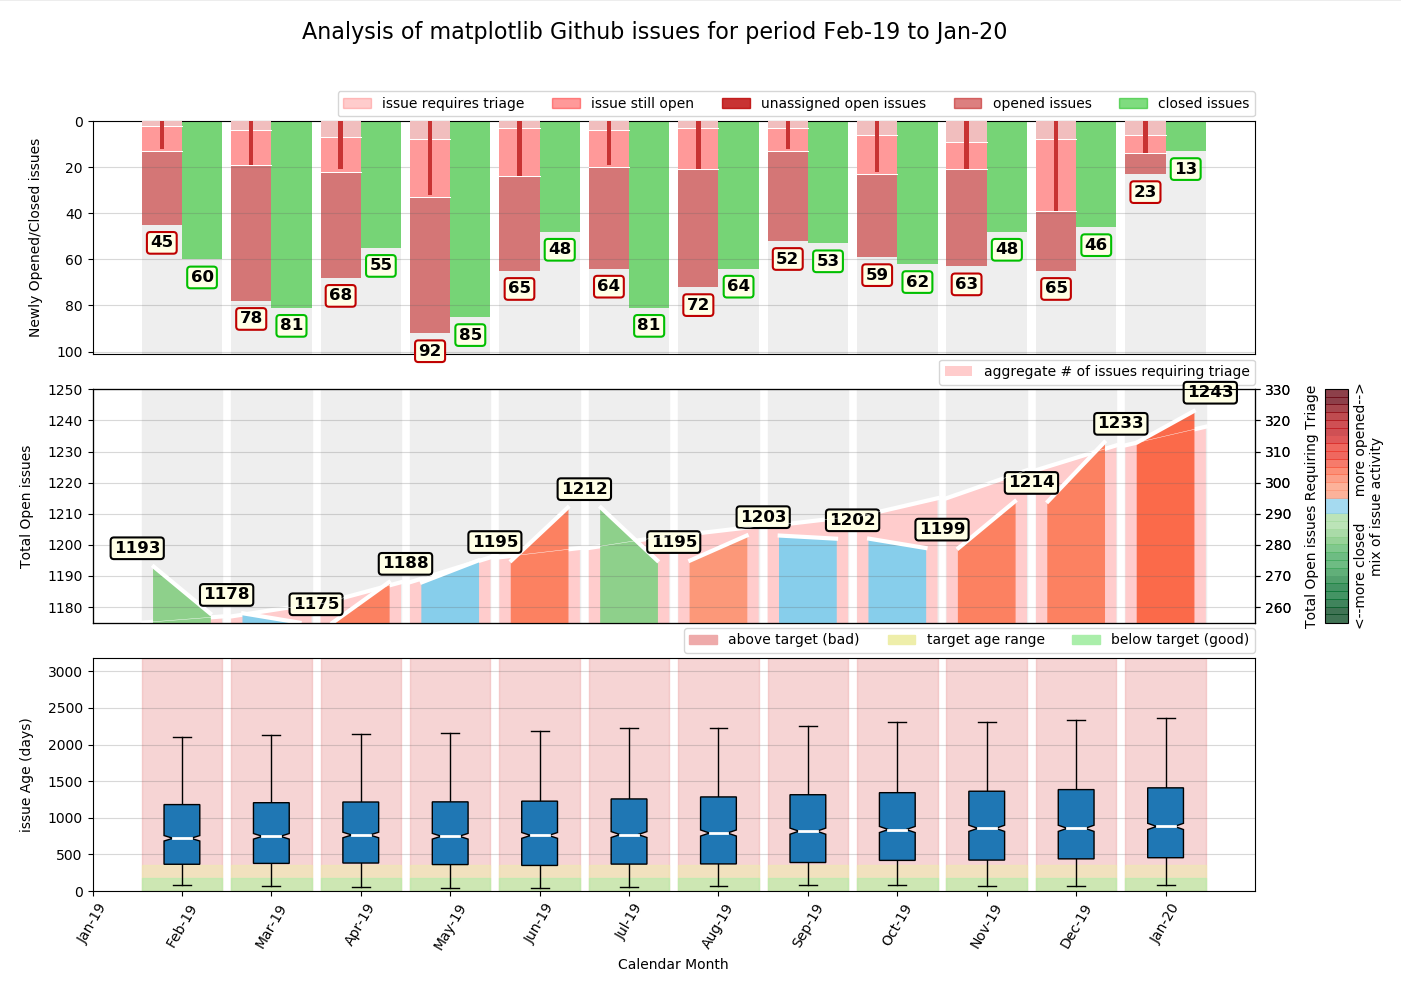
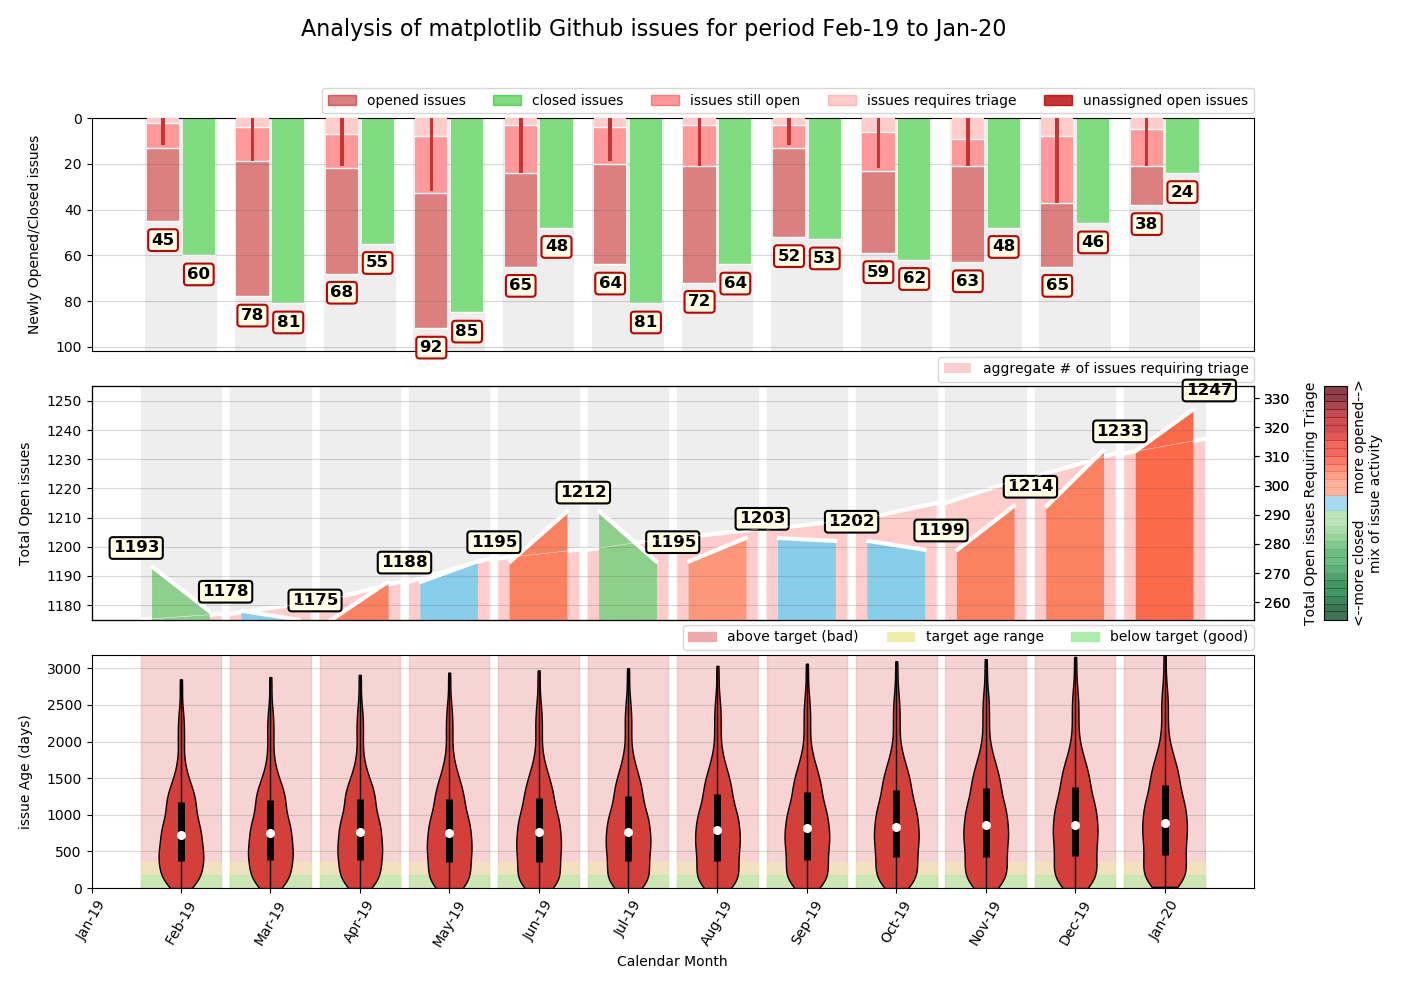
* replace issue ages box plot with a violin plot * refactor opened/closed issues (top dashboard) matplotlib code as a user-configurable function * replace main githubio page image with a version containing the new violin plot

diff --git a/src/RepoDash.py b/src/RepoDash.py
@@ -26,14 +26,14 @@ gu = GithubIssuesUtils()
 args = gu.process_args()
 args = gu.args
 
-# simply report debug info and quit if -i/--info arg is supplied on cmd line
+# simply write debug info to a file and quit if -i/--info arg is supplied
 if args['info'] == True:
     gu.write_debug_info()
     exit()
 
+# wipe and create an empty issues database table with every run
+# (future versions may implement incremental update capabilities)
 db = GithubIssuesDB(f'{gu.data_path}/issues', 'issues', echo=False)
-# wipe and regenerate the issues database with every run.
-# future versions may implement more extensive CRUD capabilities
 db.drop_table()
 db.create_table()
 
@@ -53,14 +53,13 @@ if db.count_records(f"{args['issue_type']}") == 0:
     print (f"ERROR: no {args['issue_type']}s found")
     exit()
 
+# initialise numpy arrays for plotting data
 gd = GithubIssuesData()
 data_span = db.monthly_span
 gd.init_arrays(data_span)
 
-
-
 # populate numpy data arrays for plotting
-# ([1] opened, [2] closed, [3] open & unlabelled [4] open & unassigned [5] open [6] total open & [6] ages)
+# ([1] opened, [2] closed, [3] open & unlabelled [4] open & unassigned [5] open [6] total open & [7] ages)
 print("INFO Processing data...")
 i = 0
 for idx in data_span:
@@ -94,18 +93,19 @@ for idx in data_span:
                                          else gd.total_open_issue_counts[(i-1)] + gd.opened_issue_counts[i] - gd.closed_issue_counts[i])
         gd.total_unlabelled_issue_counts[i] = gd.total_unlabelled_issue_counts[i-1] + gd.unlabelled_issue_counts[i]       
         gd.total_unassigned_issue_counts[i] = gd.total_unassigned_issue_counts[i-1] + gd.unassigned_issue_counts[i]       
-    # [6]
+    # [7]
     npa = db.get_issue_ages(args['issue_type'], idx.strftime('%Y-%m-%d'))
     gd.issue_ages.append(npa.values.flatten())
     i += 1
 
 # identify start and end array indices for requested plotting time span
 [w_start, w_end] = gd.set_plot_window(args)
-w_start -= 1
-w_end += 1
+w_start -= 1 # we want 1 month prior as well
+w_end += 1   # account for open ended ranges
 
-#db.show_issues(f"{args['issue_type']}")
-#db.show_statistics(gd.plot_window)
+# optional debug functions
+# db.show_issues(f"{args['issue_type']}")
+# db.show_statistics(gd.plot_window)
 
 # calculate monthly mix of opened/closed issues
 # range = [-1, 1], -ve => closed > opened, +ve => opened > closed
@@ -122,7 +122,7 @@ cm_reds   = cm.get_cmap('Reds', 15)   # red   = bad  (list growth)
 cm_greens.set_over('#FFFF00')         # use yellow as default out of range green colour
 cm_reds.set_over('#FF00FF')           # use purple as default out of range red colour
 
-# constrauct the colorbar from the heatmaps
+# construct the colorbar from the heatmaps
 pos_cmap = cm.get_cmap('Greens_r', 15)
 neg_cmap = cm.get_cmap('Reds', 15)
 newcolors = np.vstack((pos_cmap(np.linspace(0, 0.7, 15)),
@@ -146,81 +146,173 @@ fig.suptitle(title, fontsize=16)
 #######################################################################
 ### TOP SUBPLOT - count of issues opened or closed during the month ###
 #######################################################################
-plt.subplot(3,1,1)
 
-opened = gd.opened_issue_counts[w_start:w_end]
-closed = gd.closed_issue_counts[w_start:w_end]
-unlabelled = gd.unlabelled_issue_counts[w_start:w_end]
-unassigned = gd.unassigned_issue_counts[w_start:w_end]
-open_issue = gd.open_issue_counts[w_start:w_end]
-
-max_height = np.concatenate([opened[1:], closed[1:]]).max()
-
-ax_top = plt.gca()
-label_offset = (0.5 - bar_spacing) / 2
+def plot_monthly_bar(x, y, label_offset_y=None, ax=None, **kwargs):
     
-# create monthly fill areas/lines
-for i in range(1,opened.size):
-    start  = i - (0.5-bar_spacing)
-    finish = i + (0.5-bar_spacing)
-
-    # time block shading
-    plt.bar(start, max_height*1.1, width=1-(2*bar_spacing), align='edge', color='#EEEEEE',alpha=1.0, zorder=0)
-
-    plt.bar(start, opened[i], width=0.5-bar_spacing,   align='edge', color='#BB0000',alpha=0.5, zorder=1)    
-    plt.bar(i, closed[i], width=0.5-bar_spacing,   align='edge', color='#00BB00',alpha=0.5, zorder=1)
-
-    plt.bar(start, open_issue[i], width=0.5-bar_spacing,   align='edge', color='w',alpha=1, zorder=2)
-    plt.bar(start, open_issue[i], width=0.5-bar_spacing,   align='edge', color='r',alpha=0.4, zorder=3)
-    plt.plot([start,start+0.5-bar_spacing], [open_issue[i],open_issue[i]], color="w", alpha=1, linewidth=0.75, zorder=4)
-
-    plt.bar(start, unlabelled[i], width=0.5-bar_spacing,   align='edge', color='#EEEEEE',alpha=1, zorder=5)
-    plt.bar(start, unlabelled[i], width=0.5-bar_spacing,   align='edge', color='r',alpha=0.2, zorder=6)
-    plt.plot([start,start+0.5-bar_spacing], [unlabelled[i],unlabelled[i]], color="w", alpha=1, linewidth=0.75, zorder=7)
-
-    unassigned_width = 0.05
-    unassigned_pos = start + ((0.5 - bar_spacing)/2) - (unassigned_width/2)
-    plt.bar(unassigned_pos, unassigned[i], unassigned_width, align='edge', color='w',alpha=1, zorder=8)
-    plt.bar(unassigned_pos, unassigned[i], unassigned_width, align='edge', color='#BB0000',alpha=0.8, zorder=9)
-
-    bbox_props = dict(boxstyle="round,pad=0.2", fc=(1,1,0.9), ec=(0.75,0,0), lw=1.5)
-    ax_top.text(i-label_offset, opened[i]+(max_height*0.05),
-                str(opened[i]),
-                ha="center", va="top", rotation=0,
-                size=12, weight="bold",
-                bbox=bbox_props)
     
-    bbox_props = dict(boxstyle="round,pad=0.2", fc=(1,1,0.9), ec=(0,0.75,0), lw=1.5)
-    ax_top.text(i+label_offset, closed[i]+(max_height*0.05),
-                str(closed[i]),
+    # provide default axis if axis is not specified
+    if ax is None:
+        ax = plt.gca()
+
+    config = {'color': 'w', 'alpha': 1, 'zorder': 1, 'width': 1, 'align': 'edge',
+              'line_color': 'w', 'line_alpha': 1, 'line_width': 1,
+              **kwargs.get('config', {})}
+
+    start_x = (x if config['align'] == 'edge' else x-(config['width']/2))
+
+    if y > 0:
+        ax.bar(x, y, width=config['width'], align=config['align'],
+               color='w',
+               alpha=1,
+               zorder=config['zorder'])
+        ax.bar(x, y, width=config['width'], align=config['align'],
+               color=config['color'],
+               alpha=config['alpha'],
+               zorder=config['zorder'])
+        ax.plot([start_x,start_x+config['width']], [y,y],
+                linewidth=config['line_width'],
+                color=config['line_color'],
+                alpha=config['line_alpha'],
+                zorder=config['zorder'])
+    
+    if label_offset_y is not None:
+        label_offset_x = config['width'] / 2
+        bbox_props = dict(boxstyle="round,pad=0.2", fc=(1,1,0.9), ec=(0.75,0,0), lw=1.5)
+        ax.text(start_x+label_offset_x, y+label_offset_y,
+                str(y),
                 ha="center", va="top", rotation=0,
                 size=12, weight="bold",
                 bbox=bbox_props)
 
-plt.axis([0, opened.size, 0, max_height*1.1])
+def plot_monthly_counts(opened_counts, closed_counts , ax=None, **kwargs):
+    
+    # provide default axis if axis is not specified
+    if ax is None:
+        ax = plt.gca()
+    
+    # process configuration values, setting to default values where silent
+    tbox_config = {'color': '#EEEEEE', 'alpha': 1, 'zorder': 0, 'align': 'edge', 
+                   'line_color': 'w', 'line_alpha': 0, 'line_width': 0, 'spacing': 0.1,
+                   **kwargs.get('tbox_config', {})}
+    tbox_config.update({'width': 1 - (2 * tbox_config['spacing'])})
+    
+    opened_config = {'color': '#BB0000', 'alpha': 0.5, 'zorder': 1, 'align': 'center', 
+                     'line_color': 'w', 'line_alpha': 1, 'line_width': 1, 'width_pct': 0.45,
+                     **kwargs.get('opened_config', {})}
+    opened_config.update({'width': opened_config['width_pct']*tbox_config['width']})
 
-plt.gca().invert_yaxis()
+    closed_config = {'color': '#00BB00', 'alpha': 0.5, 'zorder': 2, 'align': 'center',
+                     'line_color': 'w', 'line_alpha': 1, 'line_width': 1, 'width_pct': 0.45,
+                     **kwargs.get('closed_config', {})}
+    closed_config.update({'width': closed_config['width_pct']*tbox_config['width']})
+    
+    open_config = {'color': '#FF0000', 'alpha': 0.4, 'zorder': 3, 'align': 'center',
+                   'line_color': 'w', 'line_alpha': 1, 'line_width': 1, 'width_pct': 0.45,
+                   **kwargs.get('open_config', {})}
+    open_config.update({'width': open_config['width_pct']*tbox_config['width']})
+    
+    unlabelled_config = {'color': '#FF0000', 'alpha': 0.2, 'zorder': 4, 'align': 'center',
+                         'line_color': 'w', 'line_alpha': 1, 'line_width': 1, 'width_pct': 0.45,
+                         **kwargs.get('unlabelled_config', {})}
+    unlabelled_config.update({'width': unlabelled_config['width_pct']*tbox_config['width']})
+    
+    unassigned_config = {'color': '#BB0000', 'alpha': 0.8, 'zorder': 5, 'align': 'center',
+                         'line_color': 'w', 'line_alpha': 0, 'line_width': 0, 'width_pct': 0.05,
+                         **kwargs.get('unassigned_config', {})}
+    unassigned_config.update({'width': unassigned_config['width_pct']*tbox_config['width']})
+    
+    # process other keyword arguments
+    unlabelled_counts = kwargs.get('unlabelled_counts', [])
+    unassigned_counts = kwargs.get('unassigned_counts', [])
+    open_counts = kwargs.get('open_counts', [])    
+    start_idx = kwargs.get('start_idx', 0)
+    end_idx = kwargs.get('end_idx', None)
 
-plt.ylabel(f"Newly Opened/Closed {args['issue_type']}s", labelpad=10)
+    # define data slices according to start_idx and end_idx, with sensible defaults
+    if end_idx is None:
+        opened = opened_counts[start_idx:]
+        closed = closed_counts[start_idx:]
+        unlabelled = (unlabelled_counts[start_idx:] if unlabelled_counts is not None else [])
+        unassigned = (unassigned_counts[start_idx:] if unassigned_counts is not None else [])
+        open_issue = (open_counts[start_idx:] if open_counts is not None else [])
+    else:
+        opened = opened_counts[start_idx:end_idx]
+        closed = closed_counts[start_idx:end_idx]
+        unlabelled = (unlabelled_counts[start_idx:end_idx] if unlabelled_counts is not None else [])
+        unassigned = (unassigned_counts[start_idx:end_idx] if unassigned_counts is not None else [])
+        open_issue = (open_counts[start_idx:end_idx] if open_counts is not None else [])
 
-plt.tick_params(
-    axis='x',          # changes apply to the x-axis
-    which='both',      # both major and minor ticks are affected
-    bottom=False,      # ticks along the bottom edge are off
-    top=False,         # ticks along the top edge are off
-    labelbottom=False) # labels along the bottom edge are off
+    # calculate required axis height, allowing for some headroom
+    ax_height = math.ceil(np.concatenate([opened[1:], closed[1:]]).max() * 1.1)
 
-light_red_patch   = mpatches.Patch(color='r', alpha=0.2, label=f"{args['issue_type']} requires triage")
-mid_red_patch   = mpatches.Patch(color='r', alpha=0.4, label=f"{args['issue_type']} still open")
-red_patch   = mpatches.Patch(color='#BB0000', alpha=0.5, label=f"opened {args['issue_type']}s")
-dark_red_patch   = mpatches.Patch(color='#BB0000', alpha=0.8, label=f"unassigned open {args['issue_type']}s")
-green_patch = mpatches.Patch(color='#00BB00', alpha=0.5, label=f"closed {args['issue_type']}s")
-plt.legend(handles=[light_red_patch, mid_red_patch, dark_red_patch, red_patch, green_patch],
-           bbox_to_anchor=(0, 1.02, 1, .102), loc='lower right',
-           ncol=5, borderaxespad=0)
+    # create monthly fill areas/lines
+    for i in range(1,opened.size):
+        start  = i - (tbox_config['width']/2)
+        finish = i + (tbox_config['width']/2)
 
-# Show the grid lines as dark grey lines
-plt.grid(axis='y', b=True, which='major', color='#666666', linestyle='-', alpha=0.25)
+        # time block shading
+        plot_monthly_bar(start, ax_height, ax=ax, config=tbox_config)
+
+        # 'opened this month' count bar
+        x = (start if opened_config['align'] == 'edge' else (start+i)/2)
+        plot_monthly_bar(x, opened[i], label_offset_y=(ax_height*0.05), ax=ax, config=opened_config)
+        
+        # 'closed this month' count bar
+        x = (i if closed_config['align'] == 'edge' else (i+finish)/2)
+        plot_monthly_bar(x, closed[i], label_offset_y=(ax_height*0.05), ax=ax, config=closed_config)
+
+        # (optional) 'opened this month & currently still open' count bar
+        if len(open_issue) > 0:
+            x = (start if open_config['align'] == 'edge' else (start+i)/2)
+            plot_monthly_bar(x, open_issue[i], ax=ax, config=open_config)
+
+        # (optional) 'opened this month, currently still open & unlabelled' count bar
+        if len(unlabelled) > 0:
+            x = (start if unlabelled_config['align'] == 'edge' else (start+i)/2)
+            plot_monthly_bar(x, unlabelled[i], ax=ax, config=unlabelled_config)
+        
+        # (optional) 'opened this month, currently still open & unassigned' count bar
+        if len(unassigned) > 0:
+            x = (start if unassigned_config['align'] == 'edge' else (start+i)/2)
+            plot_monthly_bar(x, unassigned[i], ax=ax, config=unassigned_config)
+    
+    ax.axis([0, opened.size, 0, ax_height])
+    ax.invert_yaxis()
+    ax.set_ylabel(f"Newly Opened/Closed {args['issue_type']}s", labelpad=10)
+
+    ax.tick_params(
+        axis='x',          # changes apply to the x-axis
+        which='both',      # both major and minor ticks are affected
+        bottom=False,      # ticks along the bottom edge are off
+        top=False,         # ticks along the top edge are off
+        labelbottom=False) # labels along the bottom edge are off
+ 
+    legend = []
+    legend.append(mpatches.Patch(color=opened_config['color'], alpha=opened_config['alpha'],
+                                 label=f"opened {args['issue_type']}s"))
+    legend.append(mpatches.Patch(color=closed_config['color'], alpha=closed_config['alpha'],
+                                 label=f"closed {args['issue_type']}s"))
+    if len(open_issue) > 0:
+        legend.append(mpatches.Patch(color=open_config['color'], alpha=open_config['alpha'],
+                                     label=f"{args['issue_type']}s still open"))
+    if len(unlabelled) > 0:
+        legend.append(mpatches.Patch(color=unlabelled_config['color'], alpha=unlabelled_config['alpha'],
+                                     label=f"{args['issue_type']}s requires triage"))
+    if len(unassigned) > 0:
+        legend.append(mpatches.Patch(color=unassigned_config['color'], alpha=unassigned_config['alpha'],
+                                     label=f"unassigned open {args['issue_type']}s"))
+    ax.legend(handles=legend, ncol=len(legend), borderaxespad=0, bbox_to_anchor=(0, 1.02, 1, .102), loc='lower right')
+
+    # Show the grid lines as dark grey lines
+    ax.grid(axis='y', b=True, which='major', color='#666666', linestyle='-', alpha=0.25)
+
+
+# calling code for topmost metrics dashboard (monthly counts)
+ax_top = plt.subplot(3,1,1)
+plot_monthly_counts(gd.opened_issue_counts, gd.closed_issue_counts, start_idx=w_start, end_idx=w_end, ax=ax_top,
+                    open_counts=gd.open_issue_counts,
+                    unlabelled_counts=gd.unlabelled_issue_counts,
+                    unassigned_counts=gd.unassigned_issue_counts)
 
 ###########################################################################
 ### MIDDLE SUBPLOT - total issues open at the start & end of each month ###
@@ -357,6 +449,14 @@ cbar.ax.set_ylabel(f"<--more closed      more opened-->\nmix of {args['issue_typ
 #################################################################################
 plt.subplot(3,1,3)
 
+def adjacent_values(vals, q1, q3):
+    upper_adjacent_value = q3 + (q3 - q1) * 1.5
+    upper_adjacent_value = np.clip(upper_adjacent_value, q3, vals[-1])
+
+    lower_adjacent_value = q1 - (q3 - q1) * 1.5
+    lower_adjacent_value = np.clip(lower_adjacent_value, vals[0], q1)
+    return lower_adjacent_value, upper_adjacent_value
+
 ages = gd.issue_ages[w_start:w_end]
 positions = np.arange(0,len(ages))
 labels = gd.month_labels[w_start:w_end]
@@ -378,9 +478,33 @@ for i in range(1,len(ages)):
     plt.fill_between([start,finish], [360,360], color='#EEEEAA', alpha=0.5)
     plt.fill_between([start,finish], [180,180],   color='#AAEEAA', alpha=0.5)
 
-plt.boxplot(ages[1:], positions=positions[1:],
-            widths=0.4, whis=[5, 95], notch=True, showfliers=False,
-            patch_artist=True, medianprops=medianprops)
+parts = plt.violinplot(ages[1:], positions=positions[1:],
+                       showmeans=False, showmedians=False, showextrema=False)
+
+for pc in parts['bodies']:
+    pc.set_facecolor('#D43F3A')
+    pc.set_edgecolor('black')
+    pc.set_alpha(1)
+
+quartile1 = []
+medians = []
+quartile3 = []
+for month in ages:
+    q1, m, q3 = np.percentile(month.tolist(), [25, 50, 75], axis=0)
+    quartile1.append(q1)
+    medians.append(m)
+    quartile3.append(q3)
+
+whiskers = np.array([adjacent_values(sorted_array, q1, q3)
+                     for sorted_array, q1, q3
+                     in zip(ages, quartile1, quartile3)])
+whiskersMin, whiskersMax = whiskers[1:, 0], whiskers[1:, 1]
+
+inds = np.arange(0, len(medians))
+plt.scatter(inds[1:], medians[1:], marker='o', color='white', s=30, zorder=3)
+plt.vlines(inds[1:], quartile1[1:], quartile3[1:], color='k', linestyle='-', lw=5)
+plt.vlines(inds[1:], whiskersMin, whiskersMax, color='k', linestyle='-', lw=1)
+
 plt.axis([0,len(ages),0,max_age])
 plt.xticks(np.arange(labels.size), labels, rotation=60) 
 plt.xlabel("Calendar Month")
